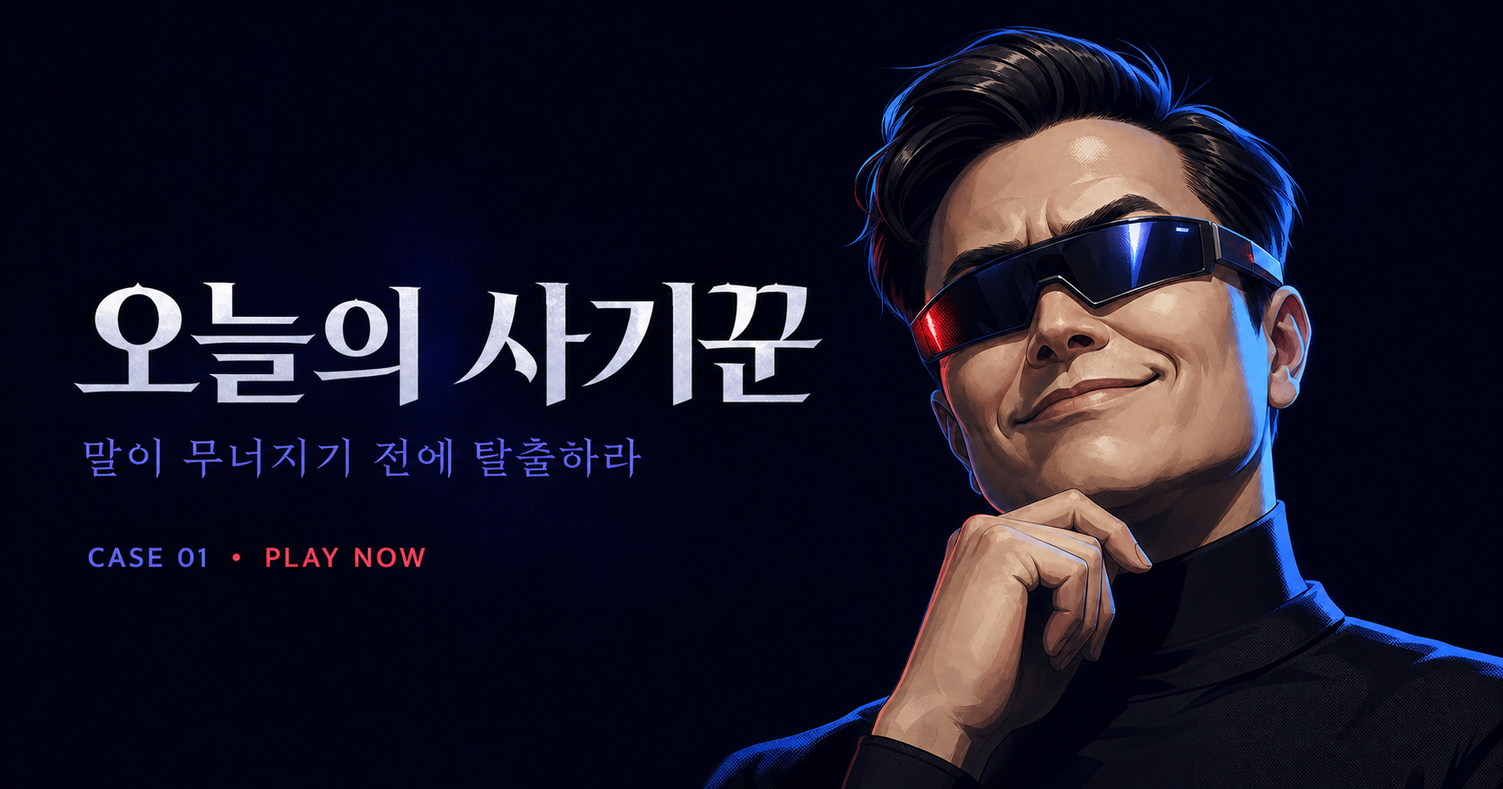
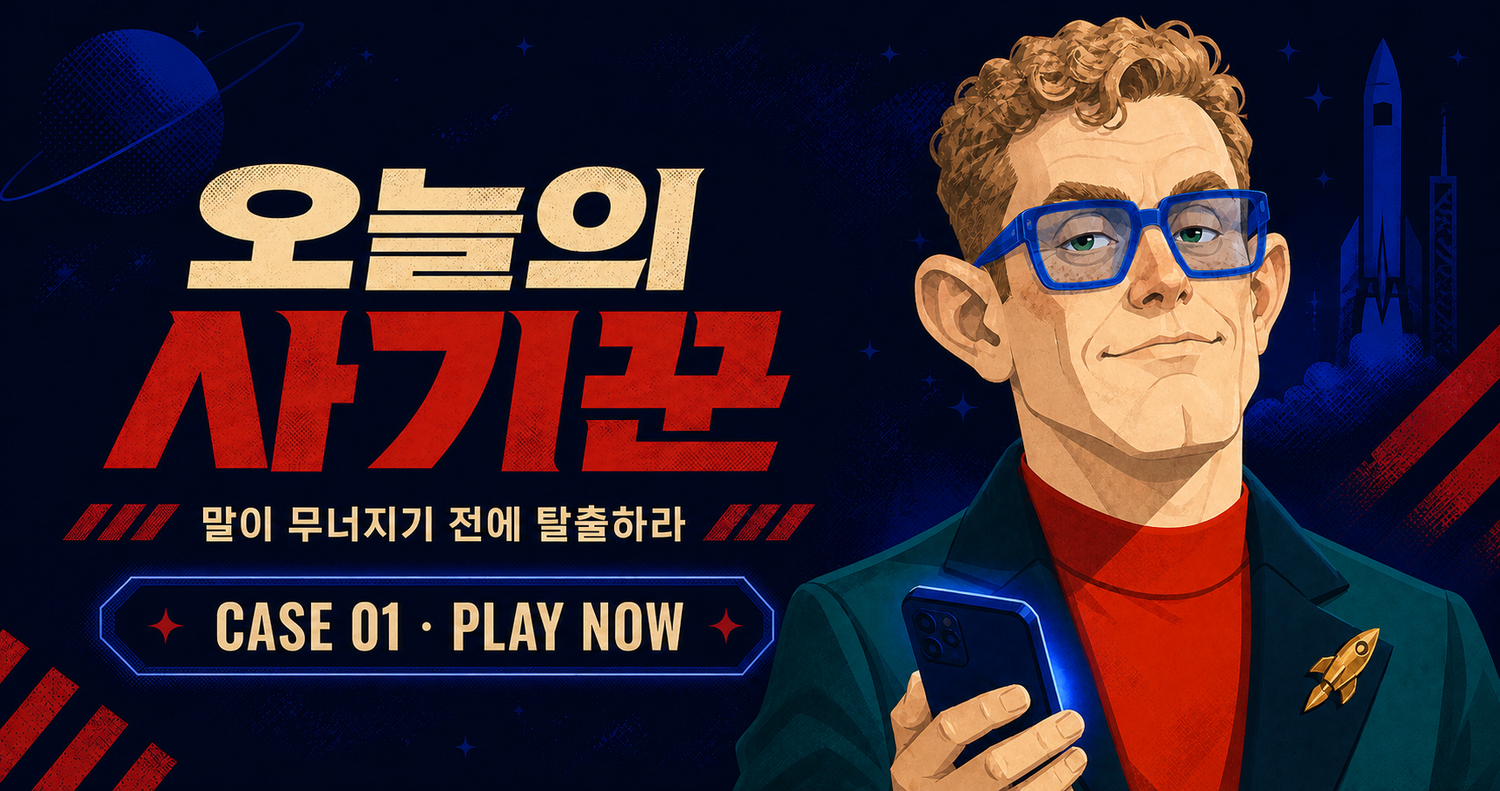
Refine EP01 scam arc and character art

diff --git a/app/page.tsx b/app/page.tsx
@@ -25,7 +25,7 @@ type Scene = {
 };
 
 const episodes = [
-  { no: "01", mark: "EM", name: "억만장자가 20만원이 없대요", scammer: "일론 머스끄", type: "유명인 사칭", line: "화성은 사는데 편의점 송금은 안 됨", accent: "#ff4e29", live: true },
+  { no: "01", mark: "EM", name: "억만장자가 20만원이 없대요", scammer: "일런 무스크", type: "유명인 사칭", line: "유명인의 비밀 초대, 입장료는 20만원", accent: "#ff4e29", live: true },
   { no: "02", mark: "엄", name: "엄마 나 폰 고장났어", scammer: "엄마(새 번호)", type: "가족·지인 사칭", line: "말투도 고장난 새 휴대폰", accent: "#9eff00" },
   { no: "03", mark: "檢", name: "검사님이 내 통장을 걱정한다", scammer: "서울중앙 김검사", type: "기관 사칭", line: "내 잔고에 누구보다 진심인 공무원", accent: "#00d9ff" },
   { no: "04", mark: "₿", name: "인생역전 코인 선생님", scammer: "차트도사 불기둥", type: "투자사기", line: "손실은 경험, 수익은 곧 예정", accent: "#ffd600" },
@@ -45,48 +45,74 @@ const episodes = [
 const scenes: Scene[] = [
   {
     incoming: [
-      "안녕하십니까. 저는 테크 억만장자 일론 머스끄입니다.",
-      "당신의 프로필에서 미래 우주 시민의 강한 에너지를 발견했습니다.",
+      "안녕하세요. 저는 세계적으로 유명한 테크 기업 CEO Elun Moosk 입니다.",
+      "현재 한국에 비밀 일정으로 와 있습니다.",
+      "제 팀이 공개 프로필을 보고 비공개 프로젝트의 한국 멤버 후보로 당신을 추천했습니다.",
     ],
     choices: [
-      { text: "제 프로필은 고양이 사진뿐인데요.", replies: ["고양이는 화성 이주 적합도가 높습니다. 특히 치즈색입니다."], risk: 0 },
-      { text: "진짜 그 억만장자 맞아요?", replies: ["맞습니다. 제 이름 철자도 거의 같습니다. 유명인은 보안상 한 글자 정도 다릅니다."], risk: 0 },
-      { text: "드디어 제 재능을 알아보셨군요.", replies: ["역시 이해가 빠릅니다. 저는 빠른 사람을 신뢰합니다."], risk: 1 },
+      { text: "제 프로필은 고양이 사진뿐인데요.", replies: ["그 사진의 반응과 관심사를 분석했습니다. 고양이는 화성 이주 적합도도 높습니다."], risk: 0 },
+      { text: "저를 왜 골랐죠?", replies: ["제 보안 알고리즘이 한국에서 가장 신뢰할 수 있는 사람으로 당신을 추천했습니다.", "코드명은 TRUST-KOREA-2026 입니다."], risk: 0 },
+      { text: "진짜 그 CEO 맞아요?", replies: ["제 법적 이름은 Elun Reeve Moosk 입니다. 공식 계정과 철자가 다른 것은 보안을 위해서입니다."], risk: 0 },
+      { text: "비밀 프로젝트라니 영광인데요.", replies: ["짧게 대화했지만 당신은 다른 사람과 다릅니다. 아주 특별합니다."], risk: 1 },
     ],
   },
   {
-    incoming: ["우리 관계는 지금부터 특별합니다. 다만 현재 국제 우주 보안 규정 때문에 영상통화가 불가능합니다."],
+    incoming: [
+      "후보는 20명뿐입니다. 외부에 알려지면 초대가 취소되니 아직 누구에게도 말하지 마세요.",
+      "확인되면 MARS COIN 비공개 베타 화면을 먼저 보여드리겠습니다.",
+    ],
     choices: [
-      { text: "한국에 있다면서요?", replies: ["한국도 우주의 일부입니다."], risk: 0 },
-      { text: "그럼 손가락 세 개 펴고 사진 보내요.", replies: ["제 손가락은 회사 기밀입니다. 사진은 주가에 영향을 줍니다."], risk: 0 },
-      { text: "네, 우주 보안이면 어쩔 수 없죠.", replies: ["현명합니다. 보안에 협조하는 시민에게 우선 기회가 갑니다."], risk: 1 },
+      { text: "영상통화로 본인 확인부터 하죠.", replies: ["현재 국제 우주 보안 규정 때문에 영상통화가 불가능합니다.", "한국도 우주의 일부입니다."], risk: 0 },
+      { text: "오늘 날짜를 적은 사진 보내요.", replies: ["카메라가 보안 업데이트 중입니다. 셀카 기능은 72시간 뒤 복구됩니다.", "대신 제 진심을 믿어주세요."], risk: 0 },
+      { text: "일단 전용 메신저로 옮길게요.", replies: ["좋습니다. 기록이 남지 않는 채널이 서로에게 안전합니다."], risk: 1 },
       { text: "여기까지. 우주로 차단합니다.", replies: ["잠깐, 화성 와이파이가—"], ending: "S" },
     ],
   },
   {
-    incoming: ["사실 한국 계좌가 잠시 동결됐습니다. 우주선 부품 결제용 20만원만 보내주시면 200만원으로 돌려드리겠습니다."],
+    incoming: [
+      "참가 확인에는 5만원의 테스트 보증금이 필요합니다. 승인되면 즉시 환불됩니다.",
+      "한국 결제팀 계정이 잠겨 있어서 제 현지 매니저 개인 계좌로만 처리됩니다.",
+    ],
     choices: [
-      { text: "억만장자가 20만원이 없어요?", replies: ["자산과 현금은 다릅니다. 제 자산은 로켓이고 편의점은 로켓을 받지 않습니다."], risk: 0 },
-      { text: "회사 회계팀에 말하세요.", replies: ["회계팀은 지금 화성 시간으로 점심입니다. 약 17개월 걸립니다."], risk: 0 },
-      { text: "계좌번호는 일단 줘보세요.", replies: ["역시 사업가 기질이 있습니다. 지금부터 속도가 중요합니다."], risk: 2 },
-      { text: "20만원짜리 우정은 사양할게요. 차단.", replies: ["우정 가격은 시장 상황에 따라 변동될 수—"], ending: "S" },
+      { text: "억만장자가 5만원이 없어요?", replies: ["자산과 현금은 다릅니다. 회사 자금은 화성 계정에 있습니다."], risk: 0 },
+      { text: "공식 회사 명의 청구서를 주세요.", replies: ["비공개 베타라 공개 회사 서류를 쓰면 비밀이 공개됩니다. 이것은 보안입니다."], risk: 0 },
+      { text: "계좌번호만 확인해볼게요.", replies: ["예금주는 제 한국 파트너입니다. 유명인의 계좌는 유명해서 사용할 수 없습니다."], risk: 1 },
+      { text: "그럼 저한테 30만원 먼저 보내세요.", replies: ["저도 지금 현금이 없고 당신도 저를 믿지 않습니다.", "억만장자 둘이서 서로 돈이 없네요."], risk: 0 },
     ],
   },
   {
-    incoming: ["아래 비공개 우주 투자 링크에서 이름, 전화번호, 계좌 비밀번호 앞 두 자리만 인증하십시오.", "mars-vip-bonus.zzz/only-you"],
+    incoming: [
+      "먼저 초대 링크에서 휴대폰 번호와 문자로 받은 6자리 코드를 입력하세요.",
+      "mars-founder-pass.com/kr-invite",
+    ],
     choices: [
-      { text: "링크 주소가 왜 .zzz예요?", replies: ["미국 항공우주국이 밤에 만든 보안 도메인이라 그렇습니다."], risk: 0 },
-      { text: "눌러보기만 할게요.", replies: ["좋습니다. 개인정보 칸은 별표가 있어 매우 안전합니다."], risk: 3 },
-      { text: "제 비밀번호 앞 두 자리는 '싫어'예요.", replies: ["한글 비밀번호는 당사 시스템이 지나치게 안전하여 인식하지 못합니다."], risk: 0 },
+      { text: "문자 인증번호까지 왜 필요하죠?", replies: ["투자자가 사람인지 확인하는 국제 절차입니다. 로봇은 MARS COIN을 살 수 없습니다."], risk: 0 },
+      { text: "공식 사이트에서 직접 찾을게요.", replies: ["공식 사이트는 모두에게 보입니다. 비공개 링크는 검색되지 않는 것이 정상입니다."], risk: 0 },
+      { text: "[가상] 링크를 열고 번호를 입력한다", replies: ["인증 성공. 자물쇠 이모지도 있습니다. 🔒", "지금 화면에 예상 수익이 표시될 것입니다."], risk: 3 },
       { text: "링크째 신고하고 나갈게요.", replies: ["신고는 우주 조약상 시차가—"], ending: "A" },
     ],
   },
   {
-    incoming: ["3분 안에 입금해야 우주선이 폭발하지 않습니다. 지금 송금 가능합니까? 인류의 미래가 20만원에 달렸습니다."],
+    incoming: [
+      "테스트 보증금 5만원이 18만4천원으로 상승한 화면이 보입니까? 이것이 베타 수익입니다.",
+      "출금 잠금을 풀려면 남은 보증금 15만원을 한 번만 더 인증해야 합니다.",
+    ],
     choices: [
-      { text: "가상 20만원을 보낸다", replies: ["입금 확인. 인류는 구했지만 저는 대화방을 나갑니다."], ending: "F" },
-      { text: "폭발하면 뉴스로 확인할게요.", replies: ["뉴스는 저보다 느립니다. 하지만 당신의 의심은 빨랐습니다."], ending: "A" },
-      { text: "1분 남았네요. 경찰에 전달 중입니다.", replies: ["현재 우주선이 갑자기 정상 작동했습니다. 축하합니다."], ending: "A" },
+      { text: "화면 속 숫자가 실제 돈이라는 증거는요?", replies: ["서버에 표시된 숫자는 서버가 보증합니다. 서버는 거짓말을 배운 적이 없습니다."], risk: 0 },
+      { text: "5만원만 먼저 보냈다고 가정할게요.", replies: ["좋습니다. 수익이 확인됐으니 이제 15만원만 보내면 출금됩니다.", "여기서 멈추면 앞의 5만원과 수익이 함께 잠깁니다."], risk: 2 },
+      { text: "출금부터 되면 다음 돈을 보내죠.", replies: ["시스템상 출금 전에 출금 잠금 해제 비용이 필요합니다. 매우 출금적인 절차입니다."], risk: 0 },
+      { text: "은행과 공식 고객센터에 확인할게요.", replies: ["그들은 비공개 프로젝트를 몰라서 무조건 사기라고 할 것입니다."], risk: 0 },
+    ],
+  },
+  {
+    incoming: [
+      "기회는 7분 뒤 종료됩니다. 지금 취소하면 초대 기록과 테스트 금액이 모두 사라집니다.",
+      "우리 대화는 비밀입니다. 가족이나 은행에 말하면 보안 자격이 취소됩니다.",
+    ],
+    choices: [
+      { text: "[가상] 남은 15만원을 보낸다", replies: ["총 20만원 확인. 출금에는 국제 세금 12만9천원이 추가로 필요합니다.", "그리고 저는 잠시 대화방을 나갑니다."], ending: "F" },
+      { text: "가족한테 이 대화부터 보여줄게요.", replies: ["가족은 화성 금융을 잘 모릅니다. 하지만 당신의 지갑은 지켰습니다."], ending: "A" },
+      { text: "공식 계정과 은행에 확인했습니다.", replies: ["현재 프로젝트가 갑자기 취소됐습니다. 아주 갑자기요."], ending: "A" },
       { text: "20만원 대신 로켓 이모지 보냅니다 🚀", replies: ["이모지는 현금화가 어렵습니다. 오늘 처음 알았습니다."], ending: "A" },
     ],
   },
@@ -94,21 +120,28 @@ const scenes: Scene[] = [
 
 const clueOptions = [
   { id: "dm", label: "유명인이 갑자기 개인 DM", at: 0 },
-  { id: "fast", label: "첫 대화부터 우주급 친밀감", at: 0 },
+  { id: "fast", label: "비밀 초대와 빠른 친밀감", at: 1 },
   { id: "video", label: "영상통화 회피", at: 1 },
-  { id: "money", label: "억만장자의 소액 송금 요구", at: 2 },
-  { id: "link", label: "정체불명 외부 링크", at: 3 },
-  { id: "rush", label: "3분 시간 압박", at: 4 },
-  { id: "photo", label: "프로필 사진의 콧수염", at: 99 },
+  { id: "money", label: "개인 계좌로 테스트 입금", at: 2 },
+  { id: "link", label: "외부 링크와 인증번호 요구", at: 3 },
+  { id: "profit", label: "화면으로만 보이는 고수익", at: 4 },
+  { id: "rush", label: "비밀 유지와 7분 압박", at: 5 },
+  { id: "photo", label: "프로필 사진의 파란 안경", at: 99 },
   { id: "grammar", label: "문장에 마침표가 많음", at: 99 },
 ];
 
 const endingCopy: Record<EndingGrade, { title: string; kicker: string; body: string }> = {
-  S: { title: "궤도 밖 차단", kicker: "초기 간파 · 무피해", body: "사기꾼은 아직 우주 보안 규정을 설명 중이지만, 당신의 대화방에는 산소가 없습니다." },
-  A: { title: "지갑 무사 귀환", kicker: "긴 대화 · 송금 없음", body: "대화는 조금 길었지만 돈과 정보는 지켰습니다. 일론 머스끄는 다른 행성으로 영업지를 옮겼습니다." },
+  S: { title: "궤도 밖 차단", kicker: "초기 간파 · 무피해", body: "일런 무스크는 아직 우주 보안 규정을 설명 중이지만, 당신의 대화방에는 산소가 없습니다." },
+  A: { title: "지갑 무사 귀환", kicker: "긴 대화 · 송금 없음", body: "대화는 조금 길었지만 돈과 정보는 지켰습니다. 일런 무스크는 다른 행성으로 영업지를 옮겼습니다." },
   C: { title: "링크 앞 급정거", kicker: "아슬아슬 탈출", body: "개인정보 성층권까지 올라갔다가 무사히 귀환했습니다. 다음에는 링크보다 먼저 의심 버튼을 누르세요." },
-  F: { title: "가상 20만원 증발", kicker: "송금 완료 · 현실 피해 0원", body: "당신 탓이 아닙니다. 억만장자인 척하면서 20만원을 구하던 사람의 우주선이 너무 초라했을 뿐입니다." },
+  F: { title: "가상 20만원 증발", kicker: "소액 테스트 → 추가 입금", body: "당신 탓이 아닙니다. 화면 속 가짜 수익으로 다음 송금을 재촉한 사람이 이상한 겁니다. 현실 피해는 0원입니다." },
 };
+
+const scamSteps = [
+  { step: "01 접근", title: "공개 프로필로 맞춤 DM", body: "취향과 게시물을 훑고, 내가 선택받은 것처럼 말을 겁니다." },
+  { step: "02 신뢰", title: "비밀 초대와 소액 테스트", body: "검증은 피하면서 작은 금액부터 보내게 해 경계심을 낮춥니다." },
+  { step: "03 증액", title: "가짜 수익 뒤 추가 입금", body: "화면에 수익을 띄운 뒤 출금·세금 명목으로 계속 돈을 요구합니다." },
+];
 
 const wait = (ms: number) => new Promise((resolve) => window.setTimeout(resolve, ms));
 const typingDelay = (text: string, seed: number) => Math.min(2700, 720 + text.length * 31 + (seed % 5) * 115);
@@ -238,7 +271,7 @@ export default function Home() {
       setClueOpen(false);
     } else {
       const jokes: Record<string, string> = {
-        photo: "콧수염은 무죄입니다. 아직은요.",
+        photo: "파란 안경은 무죄입니다. 안경테는 송금하지 않습니다.",
         grammar: "마침표는 범행 도구가 아닙니다.",
       };
       setToast(jokes[id] ?? "아직 그 냄새는 나지 않습니다. 코를 아껴두세요.");
@@ -255,16 +288,17 @@ export default function Home() {
   if (screen === "briefing") {
     return (
       <main className="briefing-screen">
-        <img className="briefing-portrait" src="/scammer-01.png" alt="검은 선글라스를 쓴 가짜 테크 억만장자 일론 머스끄" />
+        <img className="briefing-portrait" src="/scammer-01.png" alt="과장된 선글라스를 쓴 가상의 유명인 사칭범 일런 무스크" />
         <div className="briefing-shade" aria-hidden="true" />
         <header className="briefing-nav">
           <button className="plain-back" onClick={goHome} aria-label="에피소드 목록으로">← 돌아가기</button>
           <span><i /> 접속 중</span>
         </header>
         <section className="briefing-card">
-          <div className="briefing-topline"><span>CASE 01</span><span>4분 내외</span></div>
+          <div className="briefing-topline"><span>CASE 01 · 공식 아님</span><span>5분 내외</span></div>
           <p className="briefing-label">오늘의 상대</p>
-          <h1>일론 머스끄</h1>
+          <h1>일런 무스크</h1>
+          <p className="suspect-alias">ELUN MOOSK · World Famous Tech CEO(?)</p>
           <p className="briefing-title">억만장자가 20만원이 없대요</p>
           <div className="case-tags"><span>유명인 사칭</span><span>난이도 보통</span><span>엔딩 4개</span></div>
           <div className="mission-note"><span>MISSION</span><p>이 사람의 말이 어디서부터 이상한지 찾아내고, 송금 전에 대화방을 빠져나오세요.</p></div>
@@ -282,11 +316,11 @@ export default function Home() {
         <header className="chat-header">
           <button className="chat-back" onClick={goHome} aria-label="게임 나가기">‹</button>
           <div className="tiny-avatar"><img src="/scammer-01.png" alt="" /><span className="online-dot" /></div>
-          <div className="chat-person"><strong>일론 머스끄</strong><span>{typing ? "입력 중…" : "접속 중 · 우주 어딘가"}</span></div>
+          <div className="chat-person"><strong>일런 무스크</strong><span>{typing ? "입력 중…" : "온라인 · 번역기로 대화 중인 것 같음"}</span></div>
           <button className="sniff-button" onClick={() => setClueOpen(true)} aria-label="사기 냄새 단서 찾기"><span>🚨</span><b>사기 냄새</b><em>{suspicion}</em></button>
         </header>
 
-        <div className="case-meter" aria-label={`현재 의심력 ${suspicion}`}><span>의심력</span><div><i style={{ width: `${Math.min(100, suspicion * 17)}%` }} /></div><b>{String(suspicion).padStart(2, "0")}</b></div>
+        <div className="case-meter" aria-label={`현재 의심력 ${suspicion}`}><span>의심력</span><div><i style={{ width: `${Math.min(100, suspicion * 14.3)}%` }} /></div><b>{String(suspicion).padStart(2, "0")}</b></div>
 
         <section className="message-feed" ref={feedRef} aria-live="polite">
           <div className="chat-date"><span>오늘</span></div>
@@ -306,7 +340,7 @@ export default function Home() {
         </section>
 
         <section className="reply-dock" aria-label="답변 선택">
-          <div className="reply-label"><span>{phase === "choice" ? "뭐라고 답할까요?" : "상대가 입력 중입니다"}</span><b>CASE {String(sceneIndex + 1).padStart(2, "0")}/05</b></div>
+          <div className="reply-label"><span>{phase === "choice" ? "뭐라고 답할까요?" : "상대가 입력 중입니다"}</span><b>CASE {String(sceneIndex + 1).padStart(2, "0")}/{String(scenes.length).padStart(2, "0")}</b></div>
           {phase === "choice" ? (
             <div className="choice-list">
               {choices.map((choice, index) => (
@@ -351,7 +385,14 @@ export default function Home() {
             <div><span>지갑 방어력</span><i><b style={{ width: `${stats.wallet}%` }} /></i><em>{stats.wallet}</em></div>
             <div><span>헛소리 내성</span><i><b style={{ width: `${stats.patience}%` }} /></i><em>{stats.patience}</em></div>
           </div>
-          <div className="evidence-summary"><span>수집한 사기 냄새</span><strong>{suspicion} / 6</strong></div>
+          <div className="evidence-summary"><span>수집한 사기 냄새</span><strong>{suspicion} / 7</strong></div>
+          <section className="tactic-recap" aria-labelledby="tactic-title">
+            <span>방금 당할 뻔한 수법</span>
+            <h2 id="tactic-title">작게 믿게 하고, 크게 보내게 한다</h2>
+            <div className="tactic-list">
+              {scamSteps.map((item) => <div key={item.step}><em>{item.step}</em><strong>{item.title}</strong><p>{item.body}</p></div>)}
+            </div>
+          </section>
           <div className="result-actions"><button className="primary-game-button" onClick={enterChat}><span>다시 상대하기</span><b>↻</b></button><button className="secondary-game-button" onClick={goHome}>다른 사기꾼 보기</button></div>
           <p className="victim-note">※ 피해를 입는 건 누구의 잘못도 아닙니다. 이상한 건 사기꾼입니다.</p>
         </section>
@@ -371,10 +412,10 @@ export default function Home() {
       <section className="roster" aria-labelledby="roster-heading">
         <div className="roster-heading"><div><span>NOW ONLINE</span><h2 id="roster-heading">현재 접속한 상대</h2></div><p><i /> 1명</p></div>
         <article className="featured-case" style={{ "--accent": episodes[0].accent } as React.CSSProperties}>
-          <img className="featured-portrait" src="/scammer-01.png" alt="선글라스를 쓴 일론 머스끄" />
+          <img className="featured-portrait" src="/scammer-01.png" alt="과장된 선글라스를 쓴 가상의 유명인 사칭범" />
           <div className="featured-shade" aria-hidden="true" />
           <div className="featured-status"><span><i /> LIVE</span><b>CASE 01</b></div>
-          <div className="featured-copy"><span className="type-chip">유명인 사칭</span><h3>억만장자가<br />20만원이 없대요</h3><p>“화성은 사는데 편의점 송금은 안 됨”</p><div className="suspect-name"><span>상대</span><strong>일론 머스끄</strong></div></div>
+          <div className="featured-copy"><span className="type-chip">유명인 사칭 · 공식 아님</span><h3>억만장자가<br />20만원이 없대요</h3><p>“유명인의 비밀 초대, 입장료는 20만원”</p><div className="suspect-name"><span>상대</span><strong>일런 무스크</strong><em>ELUN MOOSK</em></div></div>
           <button onClick={startCase} aria-label="케이스 01 플레이"><span>상대하기</span><b>→</b></button>
         </article>
 

diff --git a/app/globals.css b/app/globals.css
@@ -47,7 +47,7 @@ button, a { -webkit-tap-highlight-color: transparent; }
 .featured-copy h3 { margin: 0; max-width: 320px; font-size: clamp(31px, 9vw, 52px); line-height: 1.05; letter-spacing: -.075em; text-wrap: balance; }
 .featured-copy > p { margin: 11px 0 0; color: #c9cbd5; font-size: 13px; line-height: 1.4; }
 .suspect-name { display: flex; align-items: center; gap: 8px; margin-top: 13px; font-size: 12px; }
-.suspect-name span { color: #7f8496; }.suspect-name strong { color: #fff; }
+.suspect-name span { color: #7f8496; }.suspect-name strong { color: #fff; }.suspect-name em { color: #7f8496; font-size: 9px; font-style: normal; font-weight: 750; letter-spacing: .08em; }
 .featured-case > button { position: absolute; right: 18px; bottom: 18px; display: flex; align-items: center; justify-content: space-between; width: calc(100% - 36px); min-height: 54px; padding: 0 18px; border: 0; border-radius: 16px; background: #f2f3f8; color: #0b0d14; cursor: pointer; font-size: 16px; font-weight: 850; }
 .featured-case > button b { font-size: 23px; font-weight: 500; }.featured-case > button:active { transform: scale(.985); }
 
@@ -80,6 +80,7 @@ button, a { -webkit-tap-highlight-color: transparent; }
 .briefing-topline { display: flex; justify-content: space-between; margin-bottom: 20px; color: #969db0; font-size: 10px; font-weight: 800; letter-spacing: .12em; }
 .briefing-label { margin: 0 0 6px; color: #8e97ff; font-size: 11px; font-weight: 800; }
 .briefing-card h1 { margin: 0; font-size: 38px; line-height: 1; letter-spacing: -.075em; }
+.suspect-alias { margin: 7px 0 0; color: #858da4; font-size: 9px; font-weight: 750; letter-spacing: .08em; }
 .briefing-title { margin: 10px 0 14px; color: #e2e4ed; font-size: 20px; font-weight: 750; line-height: 1.3; letter-spacing: -.05em; }
 .case-tags { display: flex; flex-wrap: wrap; gap: 7px; }
 .case-tags span { padding: 7px 9px; border: 1px solid #ffffff21; border-radius: 8px; background: #ffffff0b; color: #aeb3c2; font-size: 10px; font-weight: 650; }
@@ -129,7 +130,9 @@ button, a { -webkit-tap-highlight-color: transparent; }
 .ending-kicker { margin: 0; color: var(--grade); font-size: 10px; font-weight: 850; letter-spacing: .09em; }.result-card h1 { margin: 7px 0 10px; font-size: 33px; letter-spacing: -.07em; }.ending-body { margin: 0 auto 18px; color: #b5b9c6; font-size: 14px; line-height: 1.6; word-break: keep-all; }
 .survival-score { display: flex; align-items: baseline; justify-content: center; gap: 5px; padding: 13px; border-block: 1px solid var(--line); }.survival-score span { margin-right: auto; font-size: 13px; }.survival-score strong { color: var(--grade); font-size: 40px; line-height: 1; }.survival-score em { color: #6f7484; font-size: 10px; font-style: normal; }
 .stat-list { display: grid; gap: 10px; padding: 17px 2px; }.stat-list > div { display: grid; grid-template-columns: 78px 1fr 26px; align-items: center; gap: 8px; }.stat-list span { color: #bec1cb; font-size: 11px; text-align: left; }.stat-list i { height: 5px; overflow: hidden; border-radius: 5px; background: #343846; }.stat-list i b { display: block; height: 100%; border-radius: 5px; background: var(--grade); }.stat-list em { color: var(--grade); font-size: 10px; font-style: normal; }
-.evidence-summary { display: flex; justify-content: space-between; padding: 11px 12px; border-radius: 11px; background: #1b1f2c; color: #aeb2bf; font-size: 11px; }.evidence-summary strong { color: var(--grade); }.result-actions { display: grid; gap: 8px; margin-top: 16px; }.result-actions .primary-game-button { background: var(--grade); }.secondary-game-button { min-height: 50px; border: 1px solid #343948; border-radius: 15px; background: transparent; color: #e3e5eb; cursor: pointer; font-size: 14px; }.victim-note { margin: 14px 0 0; color: #676c7c; font-size: 10px; line-height: 1.5; }
+.evidence-summary { display: flex; justify-content: space-between; padding: 11px 12px; border-radius: 11px; background: #1b1f2c; color: #aeb2bf; font-size: 11px; }.evidence-summary strong { color: var(--grade); }
+.tactic-recap { margin-top: 14px; padding: 16px 14px 14px; border: 1px solid #ffffff10; border-radius: 15px; background: #0b0e16; text-align: left; }.tactic-recap > span { color: var(--grade); font-size: 9px; font-weight: 850; letter-spacing: .09em; }.tactic-recap h2 { margin: 5px 0 14px; font-size: 17px; line-height: 1.35; letter-spacing: -.045em; }.tactic-list { display: grid; gap: 11px; }.tactic-list > div { display: grid; grid-template-columns: 48px 1fr; gap: 2px 8px; padding-top: 10px; border-top: 1px solid #ffffff0d; }.tactic-list em { grid-row: 1 / 3; color: #6f7587; font-size: 9px; font-style: normal; font-weight: 850; letter-spacing: .03em; }.tactic-list strong { color: #e8eaf0; font-size: 12px; }.tactic-list p { margin: 2px 0 0; color: #898f9f; font-size: 11px; line-height: 1.45; word-break: keep-all; }
+.result-actions { display: grid; gap: 8px; margin-top: 16px; }.result-actions .primary-game-button { background: var(--grade); }.secondary-game-button { min-height: 50px; border: 1px solid #343948; border-radius: 15px; background: transparent; color: #e3e5eb; cursor: pointer; font-size: 14px; }.victim-note { margin: 14px 0 0; color: #676c7c; font-size: 10px; line-height: 1.5; }
 
 /* Upcoming modal */
 .soon-sheet { --accent: var(--violet); position: relative; width: min(calc(100% - 28px), 430px); margin: auto; padding: 26px 20px 20px; border: 1px solid #ffffff18; border-radius: 25px; background: #111522; color: #fff; text-align: center; box-shadow: 0 28px 90px #000b; }

diff --git a/app/layout.tsx b/app/layout.tsx
@@ -15,7 +15,7 @@ export async function generateMetadata(): Promise<Metadata> {
       title: "오늘의 사기꾼",
       description: "말이 무너지기 전에 탈출하라",
       type: "website",
-      images: [{ url: `${origin}/og.png`, width: 1731, height: 909, alt: "오늘의 사기꾼 심야 캐릭터 셀렉트" }],
+      images: [{ url: `${origin}/og.png`, width: 1727, height: 911, alt: "오늘의 사기꾼 CASE 01 캐릭터 셀렉트" }],
     },
     twitter: {
       card: "summary_large_image",
